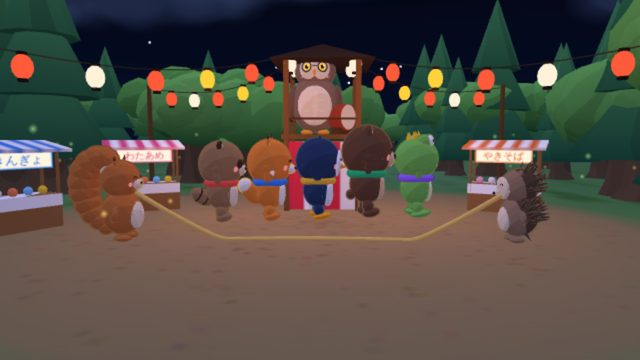
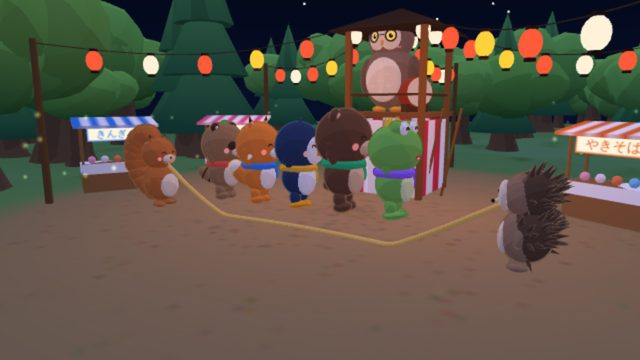
お祭りの 大なわとび: カメラを 斜め前からに
とぶ子が 向いている 右がわの 手前から、列を 斜めに 見る。カメラの 向きの 森の 木は よける。
横持ちでは「大なみ!」を 上に、ジャンプの 輪を 右下に 置いて キャラに かぶらないように。

Claude-Session: https://claude.ai/code/session_01Cisc6eBGskeR7WZHkdup4y

diff --git a/index.html b/index.html
@@ -420,6 +420,11 @@
   #hudJ .chip.out { opacity: .35; filter: grayscale(1); }
   #hudJ .timer { font-family: var(--font-display); font-weight: 400; font-size: 22px; }
   #hudJ .howto { bottom: calc(env(safe-area-inset-bottom, 0px) + 150px); }
+  @media (orientation: landscape) and (max-height: 560px) {
+    #hudJ .howto { bottom: auto; top: calc(env(safe-area-inset-top, 0px) + 62px); font-size: 14px; }
+    #hudJ .call { bottom: auto; top: calc(env(safe-area-inset-top, 0px) + 58px); font-size: 36px; }
+    #hudJ .hold { width: 74px; height: 74px; left: auto; margin-left: 0; right: max(16px, env(safe-area-inset-right, 0px)); bottom: calc(env(safe-area-inset-bottom, 0px) + 14px); }
+  }
   #hudJ .splash.small { font-size: clamp(26px, 8.5vw, 50px); white-space: pre-line; line-height: 1.15; }
   .call.high { color: #ff6a5a; font-size: clamp(40px, 13vw, 64px); }
   .hold {

diff --git a/src/games/nawa/game.js b/src/games/nawa/game.js
@@ -512,8 +512,10 @@ export async function createNawa({ renderer, settings, getAudio, onExit }) {
     if (freeCamera) return;
     const aspect = innerWidth / innerHeight;
     const portrait = aspect < 1;
-    const pos = portrait ? new THREE.Vector3(0, 3.6, 18.6) : new THREE.Vector3(0, 2.8, 10.6);
-    const look = new THREE.Vector3(0, portrait ? 2.3 : 1.4, -1.2);
+    // 斜め前(とぶ子が 向いている 右がわの 手前)から 列を 見る
+    const az = portrait ? 0.62 : 0.55, dist = portrait ? 17.8 : 10.6;
+    const pos = new THREE.Vector3(Math.sin(az) * dist, portrait ? 3.8 : 3.0, Math.cos(az) * dist);
+    const look = new THREE.Vector3(0.3, portrait ? 1.8 : 1.6, -0.4);
     camera.fov = portrait ? 58 : 44;
     camera.aspect = aspect;
     camera.updateProjectionMatrix();

diff --git a/src/games/nawa/stage.js b/src/games/nawa/stage.js
@@ -202,6 +202,7 @@ export function buildStage(scene) {
     const a = rand() * Math.PI * 2, r = 11 + rand() * 40;
     const x = Math.cos(a) * r, z = Math.sin(a) * r - 3;
     if (z > 3 && Math.abs(x) < 12) continue; // カメラの 前は あける
+    if (Math.abs(Math.atan2(x, z + 3) - 0.6) < 0.6 && r < 34) continue; // 斜め前の カメラから 見る 向きも あける
     spots.push({ x, y: 0, z, h: 5 + rand() * 4, kind: rand() < 0.3 ? 'pine' : 'broad' });
   }
   buildForestTrees(g, spots);

diff --git a/sw.js b/sw.js
@@ -10,7 +10,7 @@
 // 版はファイルの中身から作るので、1つでも変われば sw.js が変わり、ブラウザが入れなおす。
 
 // <precache>
-const VERSION = 'cdefe81caf33';
+const VERSION = '7af839a9c4f2';
 const PRECACHE = [
   "./",
   "./assets/thumbs/catch.jpg",

diff --git a/docs/minigames/nawa.md b/docs/minigames/nawa.md
@@ -38,5 +38,5 @@
   通るたびに 先生の 太鼓が ドン。
 - ひっかかった子は その場で めをまわして、列の うしろへ 下がって 見る。
 - カエル: 小さな みどりの カエルが 横から ぴょんぴょん 来て、すきまで ばらばらに とぶ。ゲコッ。
-- カメラ: 正面から 列と 回す2人を いっしょに 見せる。
+- カメラ: 斜め前(とぶ子が 向いている 右がわの 手前)から、列と 回す2人を いっしょに 見せる。その 向きの 森の 木は よける。
 - HUD: 上に のこっている子(脱落は 灰色)と とんだ回数。下に 長おしの 輪(大ジャンプまで。満ちると 金色)。「大なみ!」は 大きく。
